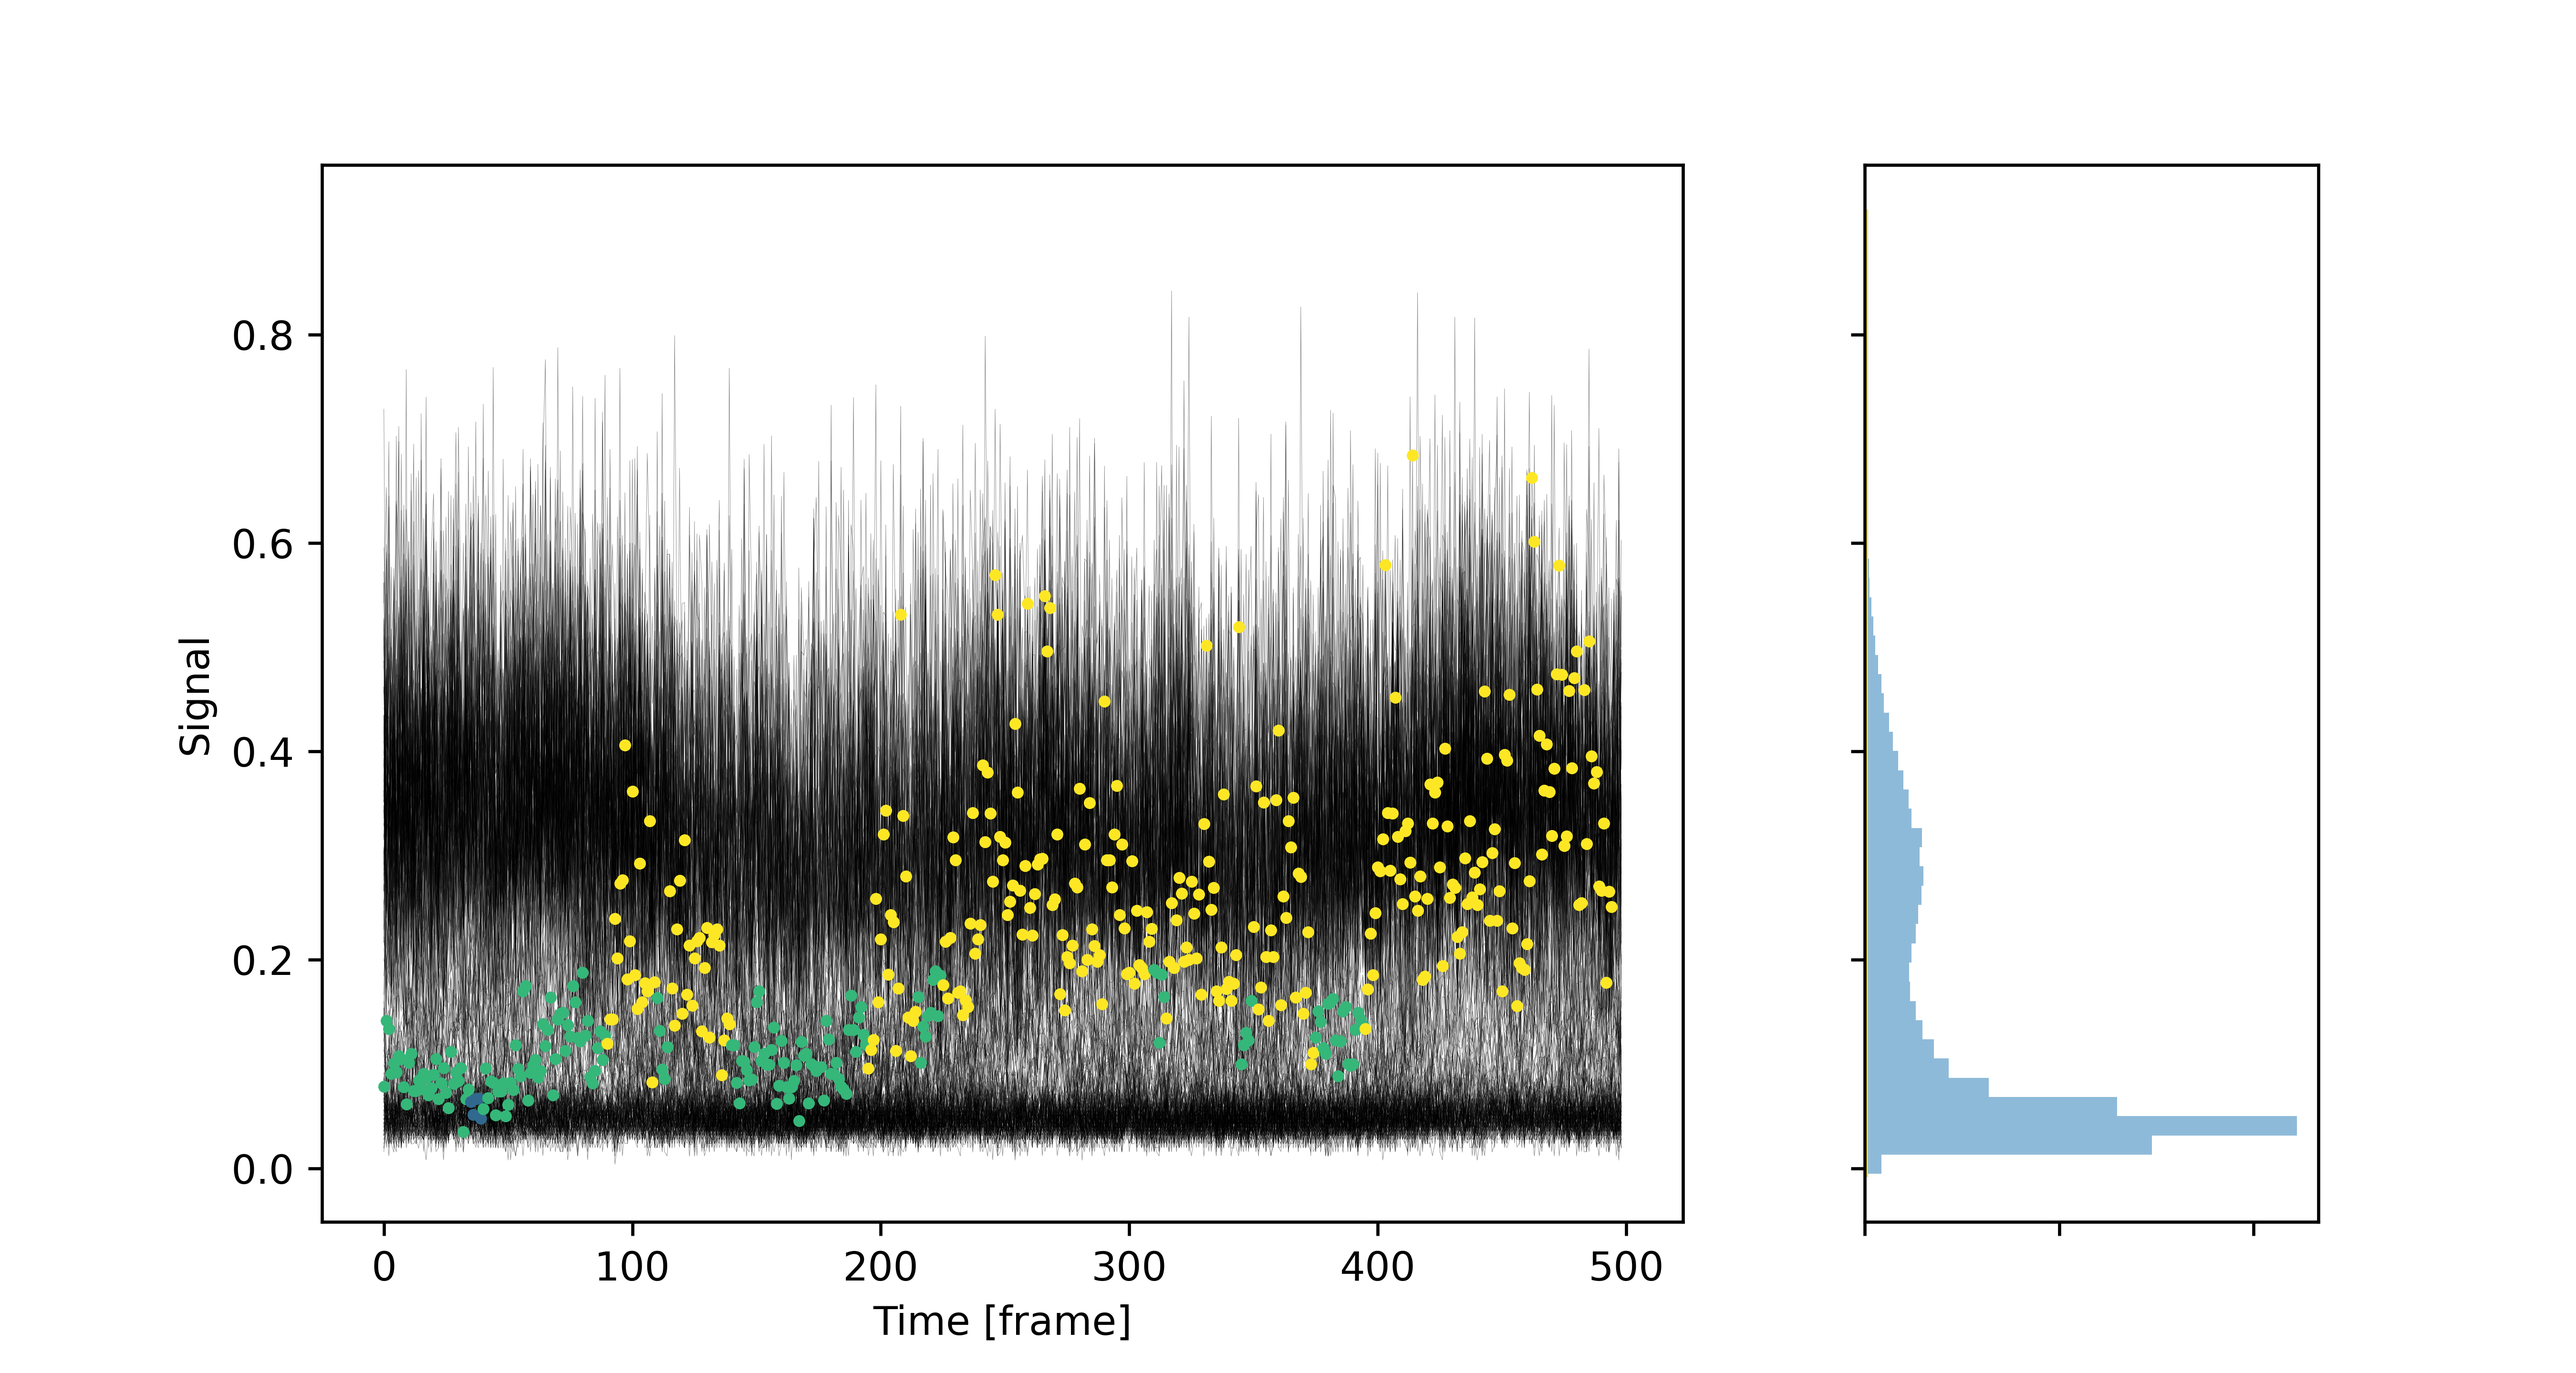
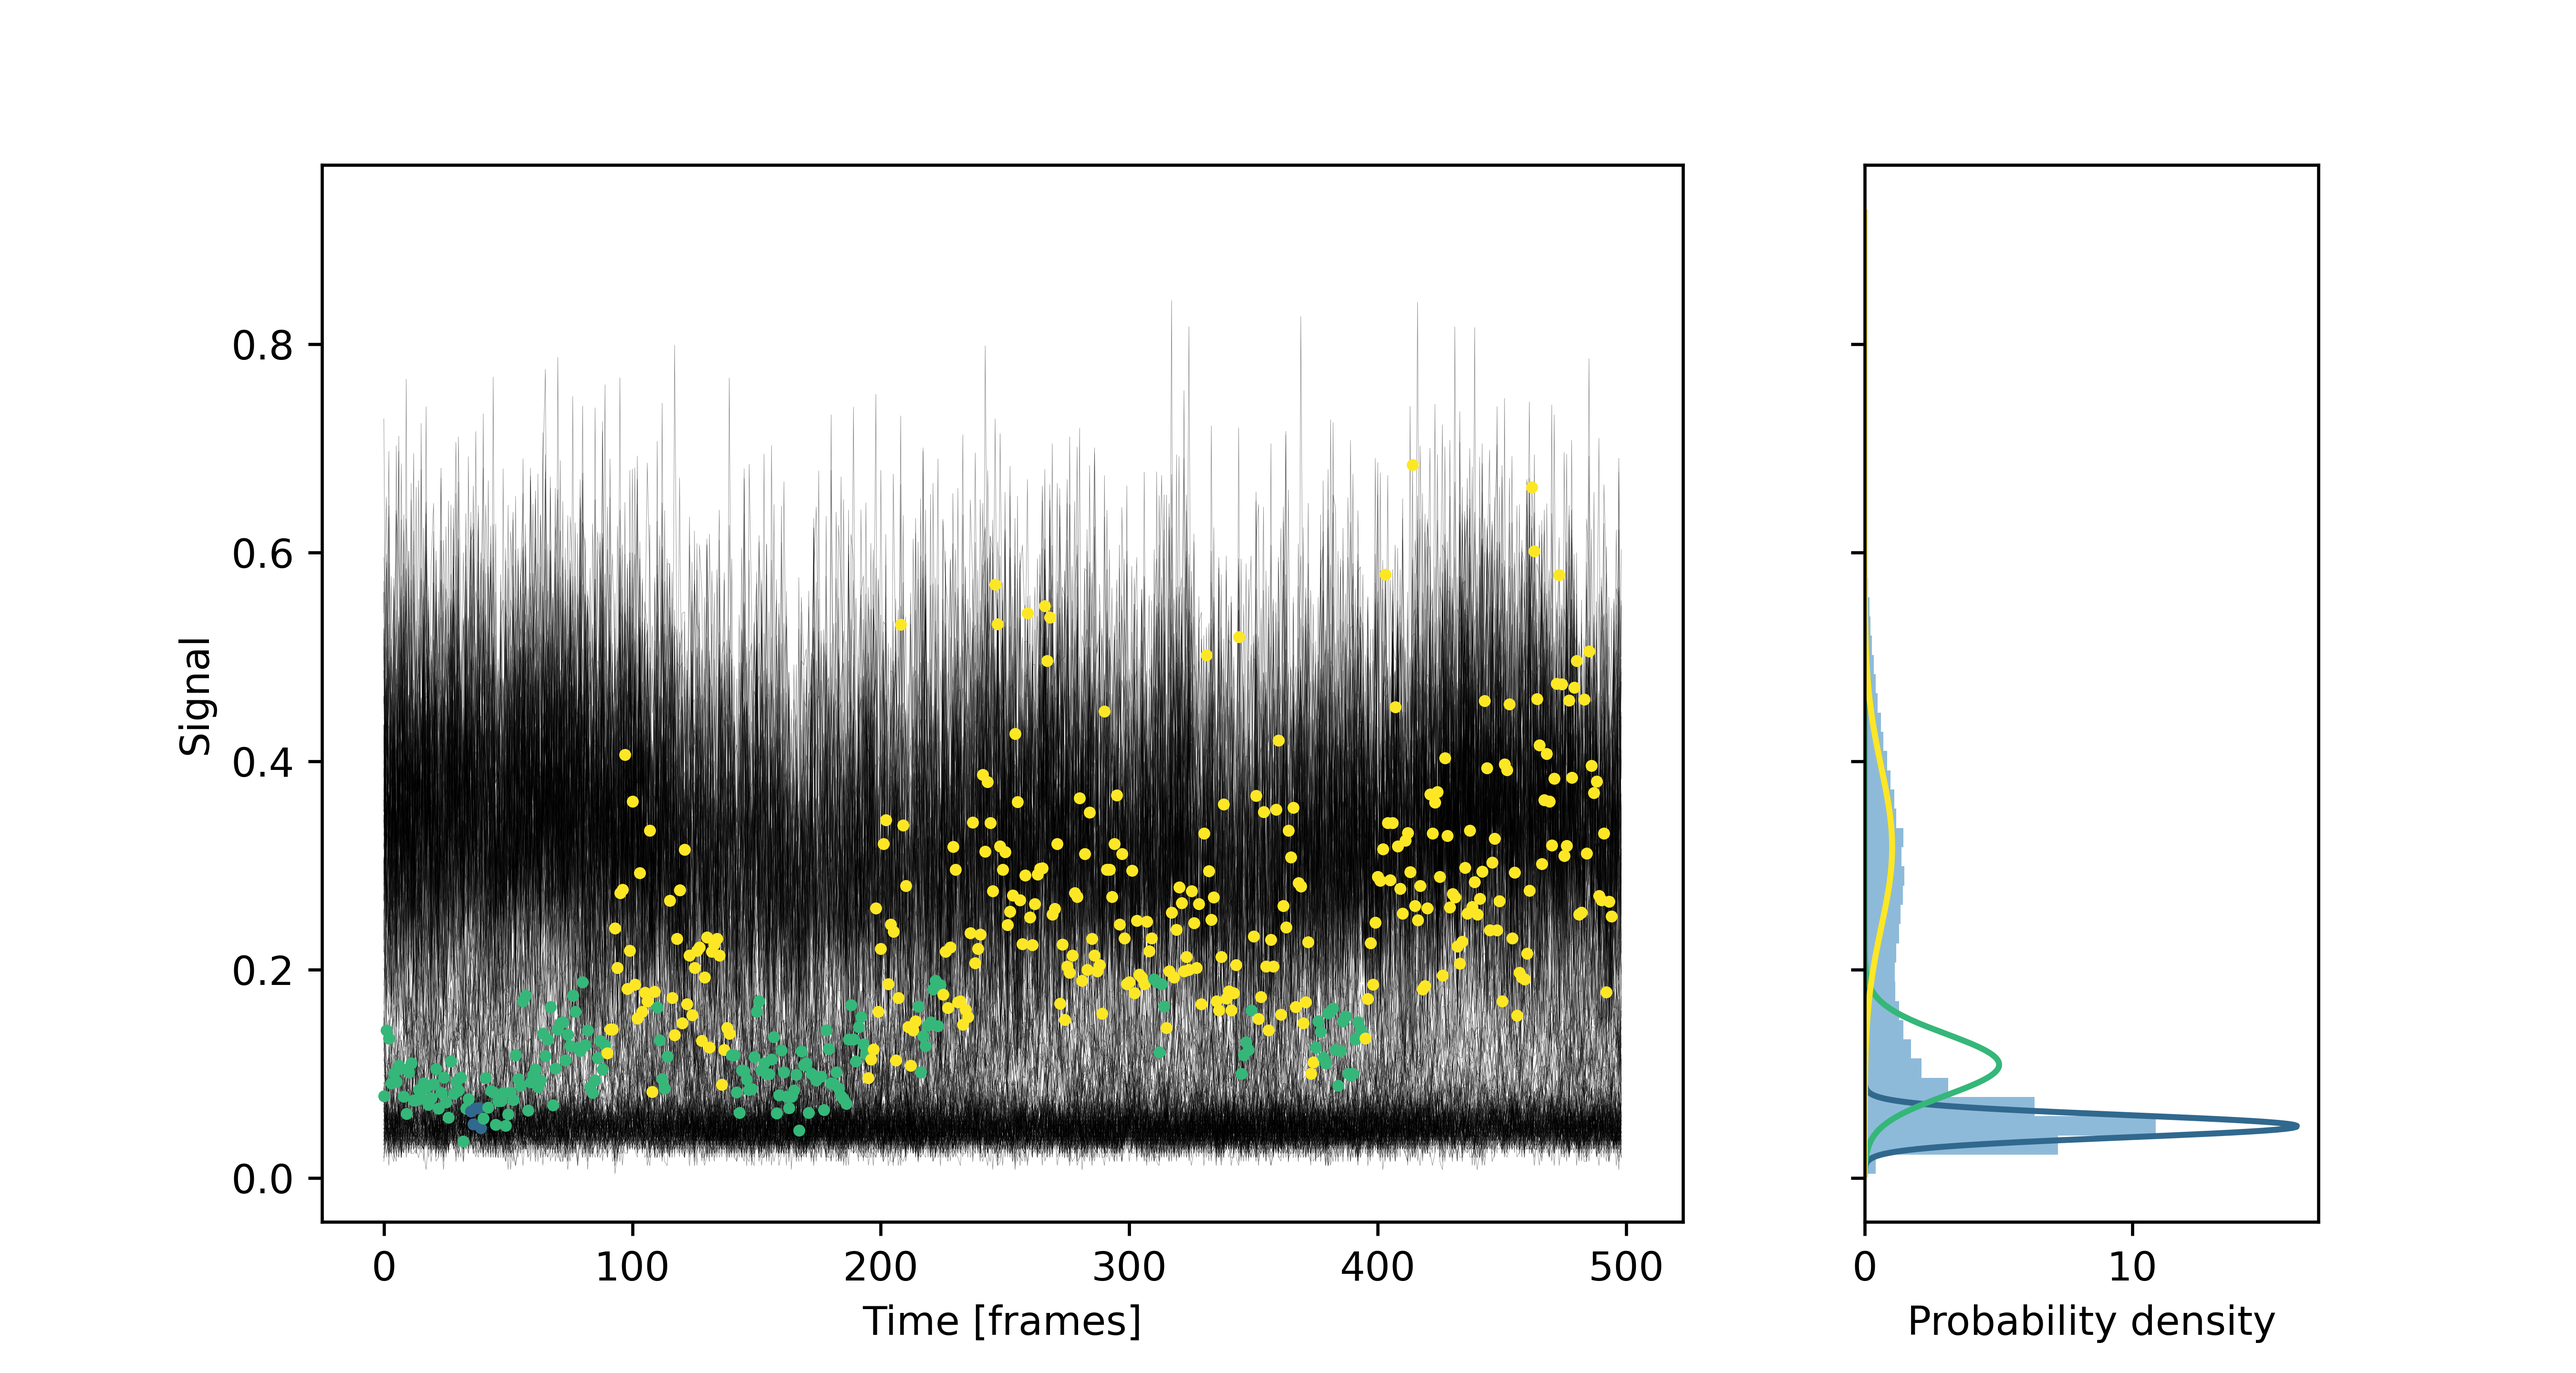
First two plots work

diff --git a/src/tropea_clustering/_internal/plot.py b/src/tropea_clustering/_internal/plot.py
@@ -97,9 +97,6 @@ def plot_output_uni(
     # Histogram on the right panel
     flat_m = input_data.flatten()
     counts, bins = np.histogram(flat_m, bins=50, density=True)
-    bins -= (bins[1] - bins[0]) / 2
-    counts *= flat_m.size
-
     axes[1].stairs(
         counts, bins, fill=True, orientation="horizontal", alpha=0.5
     )
@@ -115,8 +112,8 @@ def plot_output_uni(
 
     # Set plot titles and axis labels
     axes[0].set_ylabel("Signal")
-    axes[0].set_xlabel(r"Time [frame]")
-    axes[1].set_xticklabels([])
+    axes[0].set_xlabel(r"Time [frames]")
+    axes[1].set_xlabel(r"Probability density")
     fig.savefig(title, dpi=600)
 
 
@@ -166,8 +163,8 @@ def plot_one_trj_uni(
         ax.plot(j, time_series[example_id][j], 'o',
             color=palette[label], ms=2)
 
-    ax.set_xlabel("Time")
-    ax.set_ylabel("Value")
+    ax.set_xlabel("Time [frames]")
+    ax.set_ylabel("Signal")
     fig.savefig(title, dpi=600)
 
 
